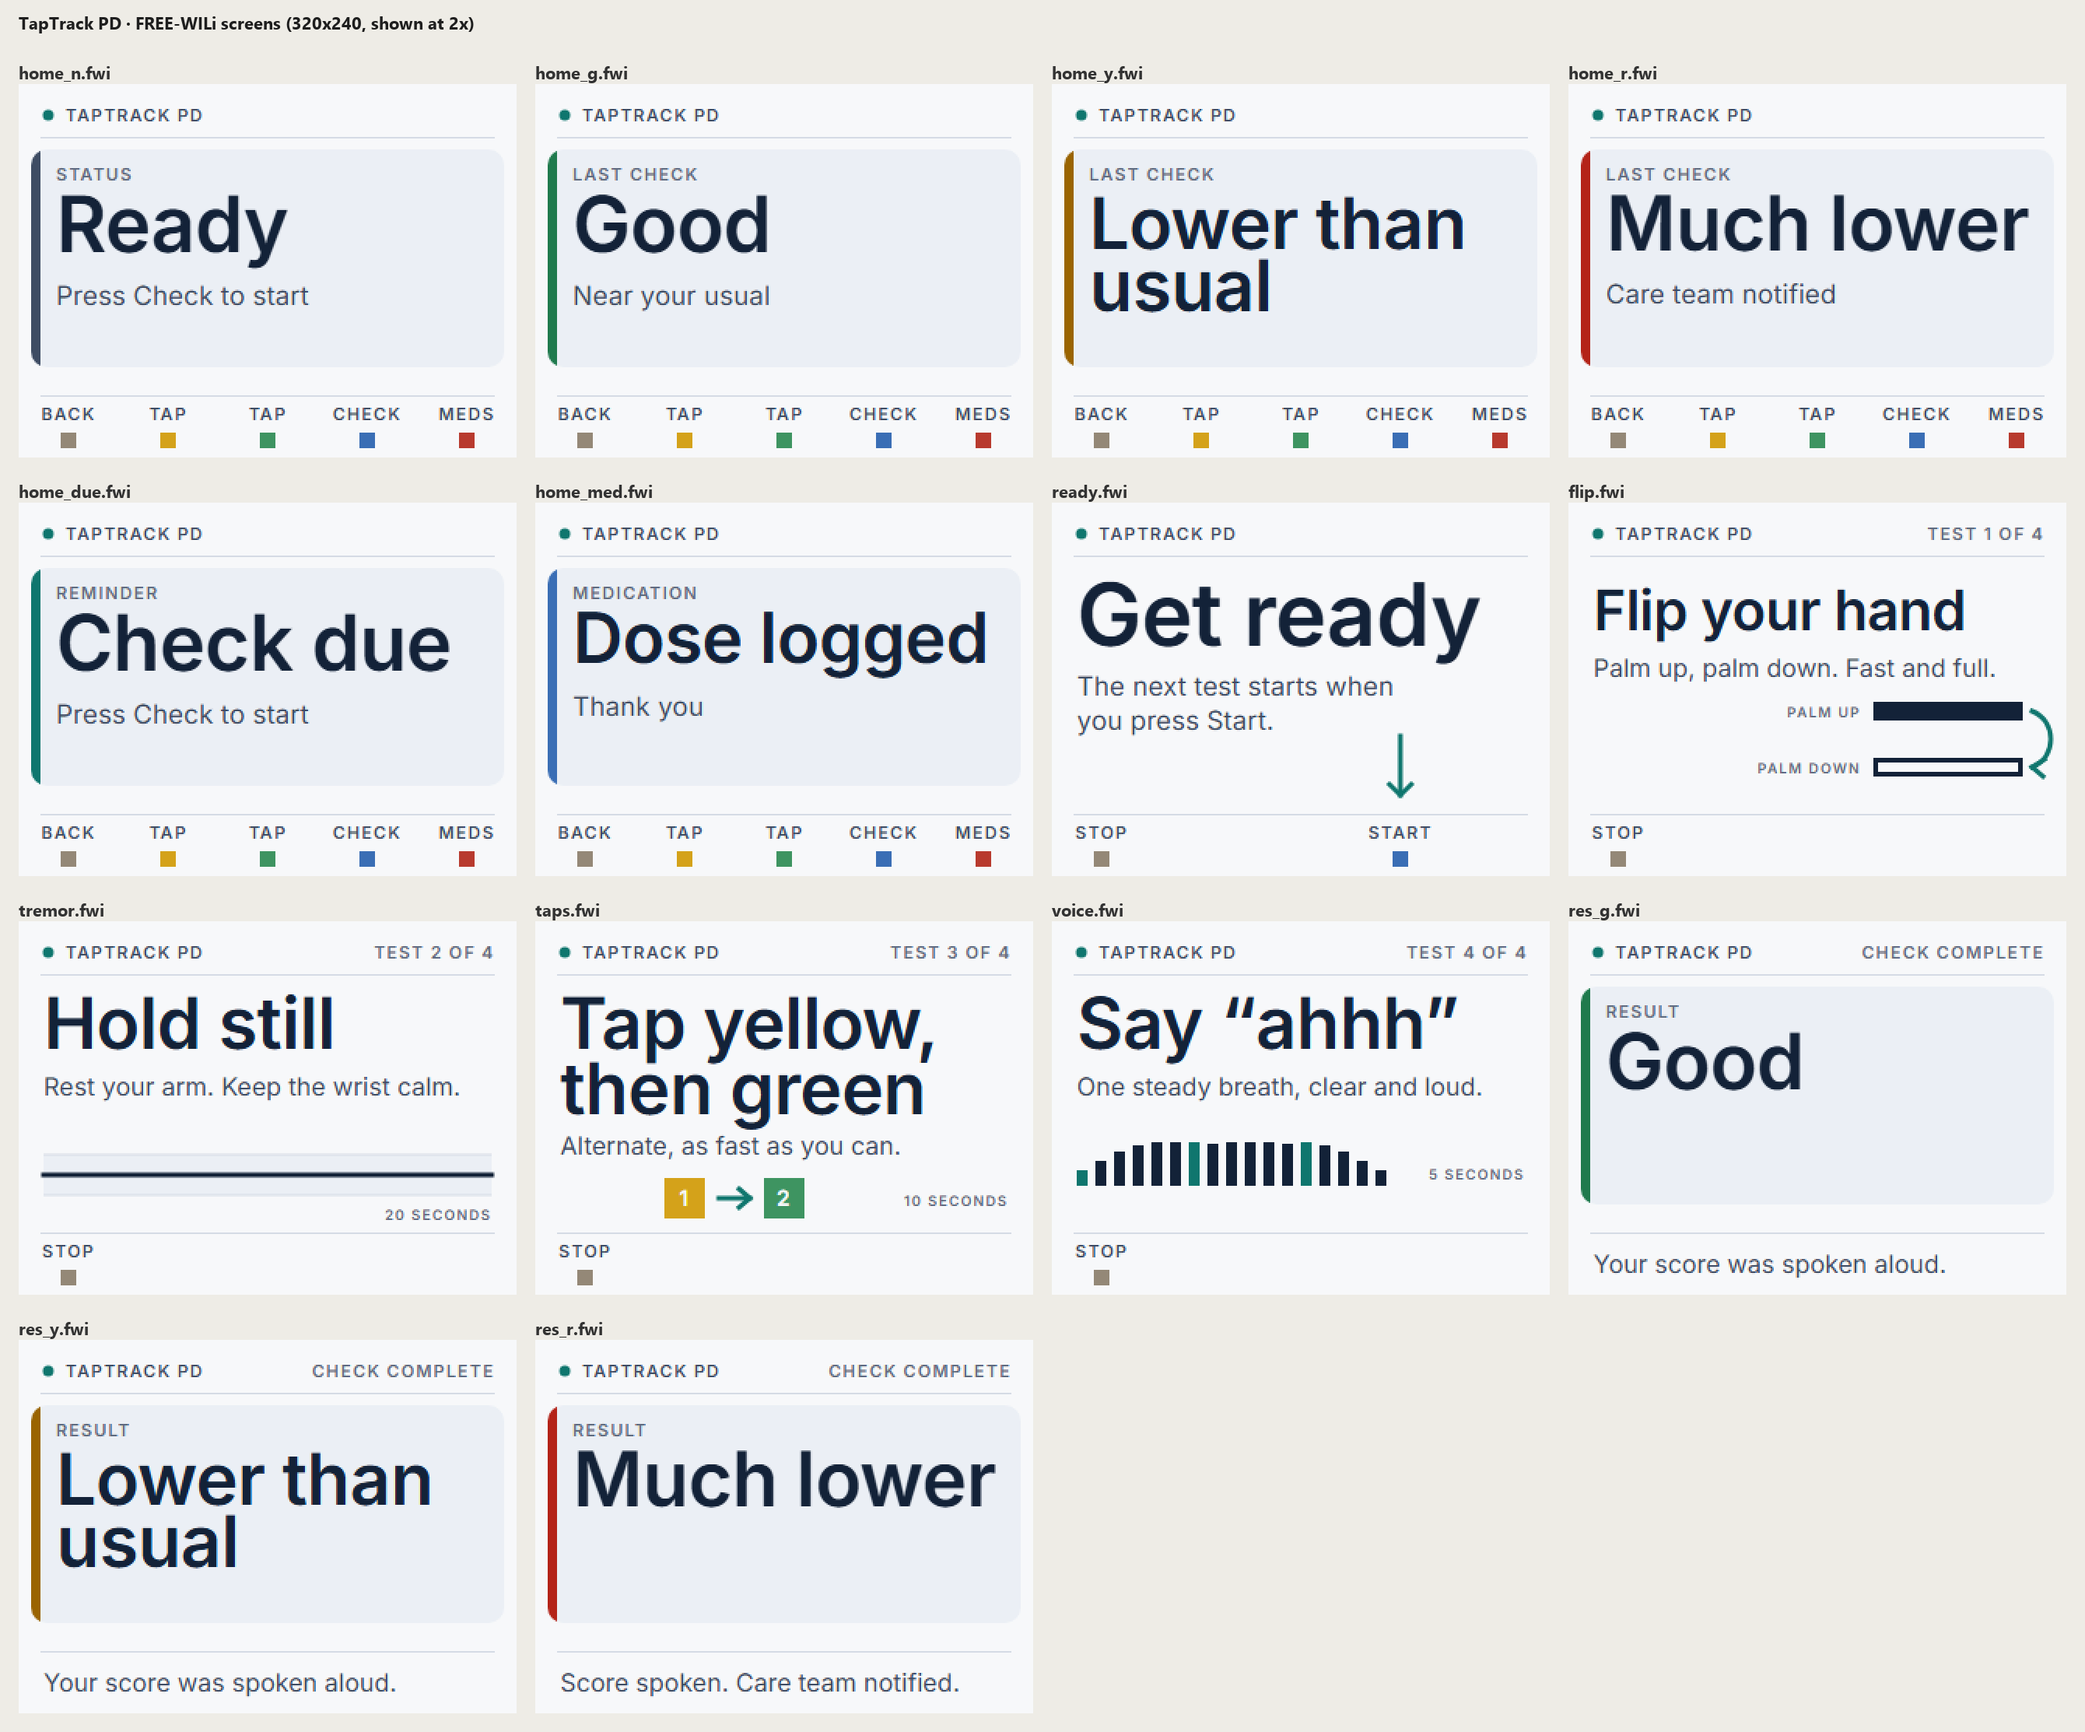
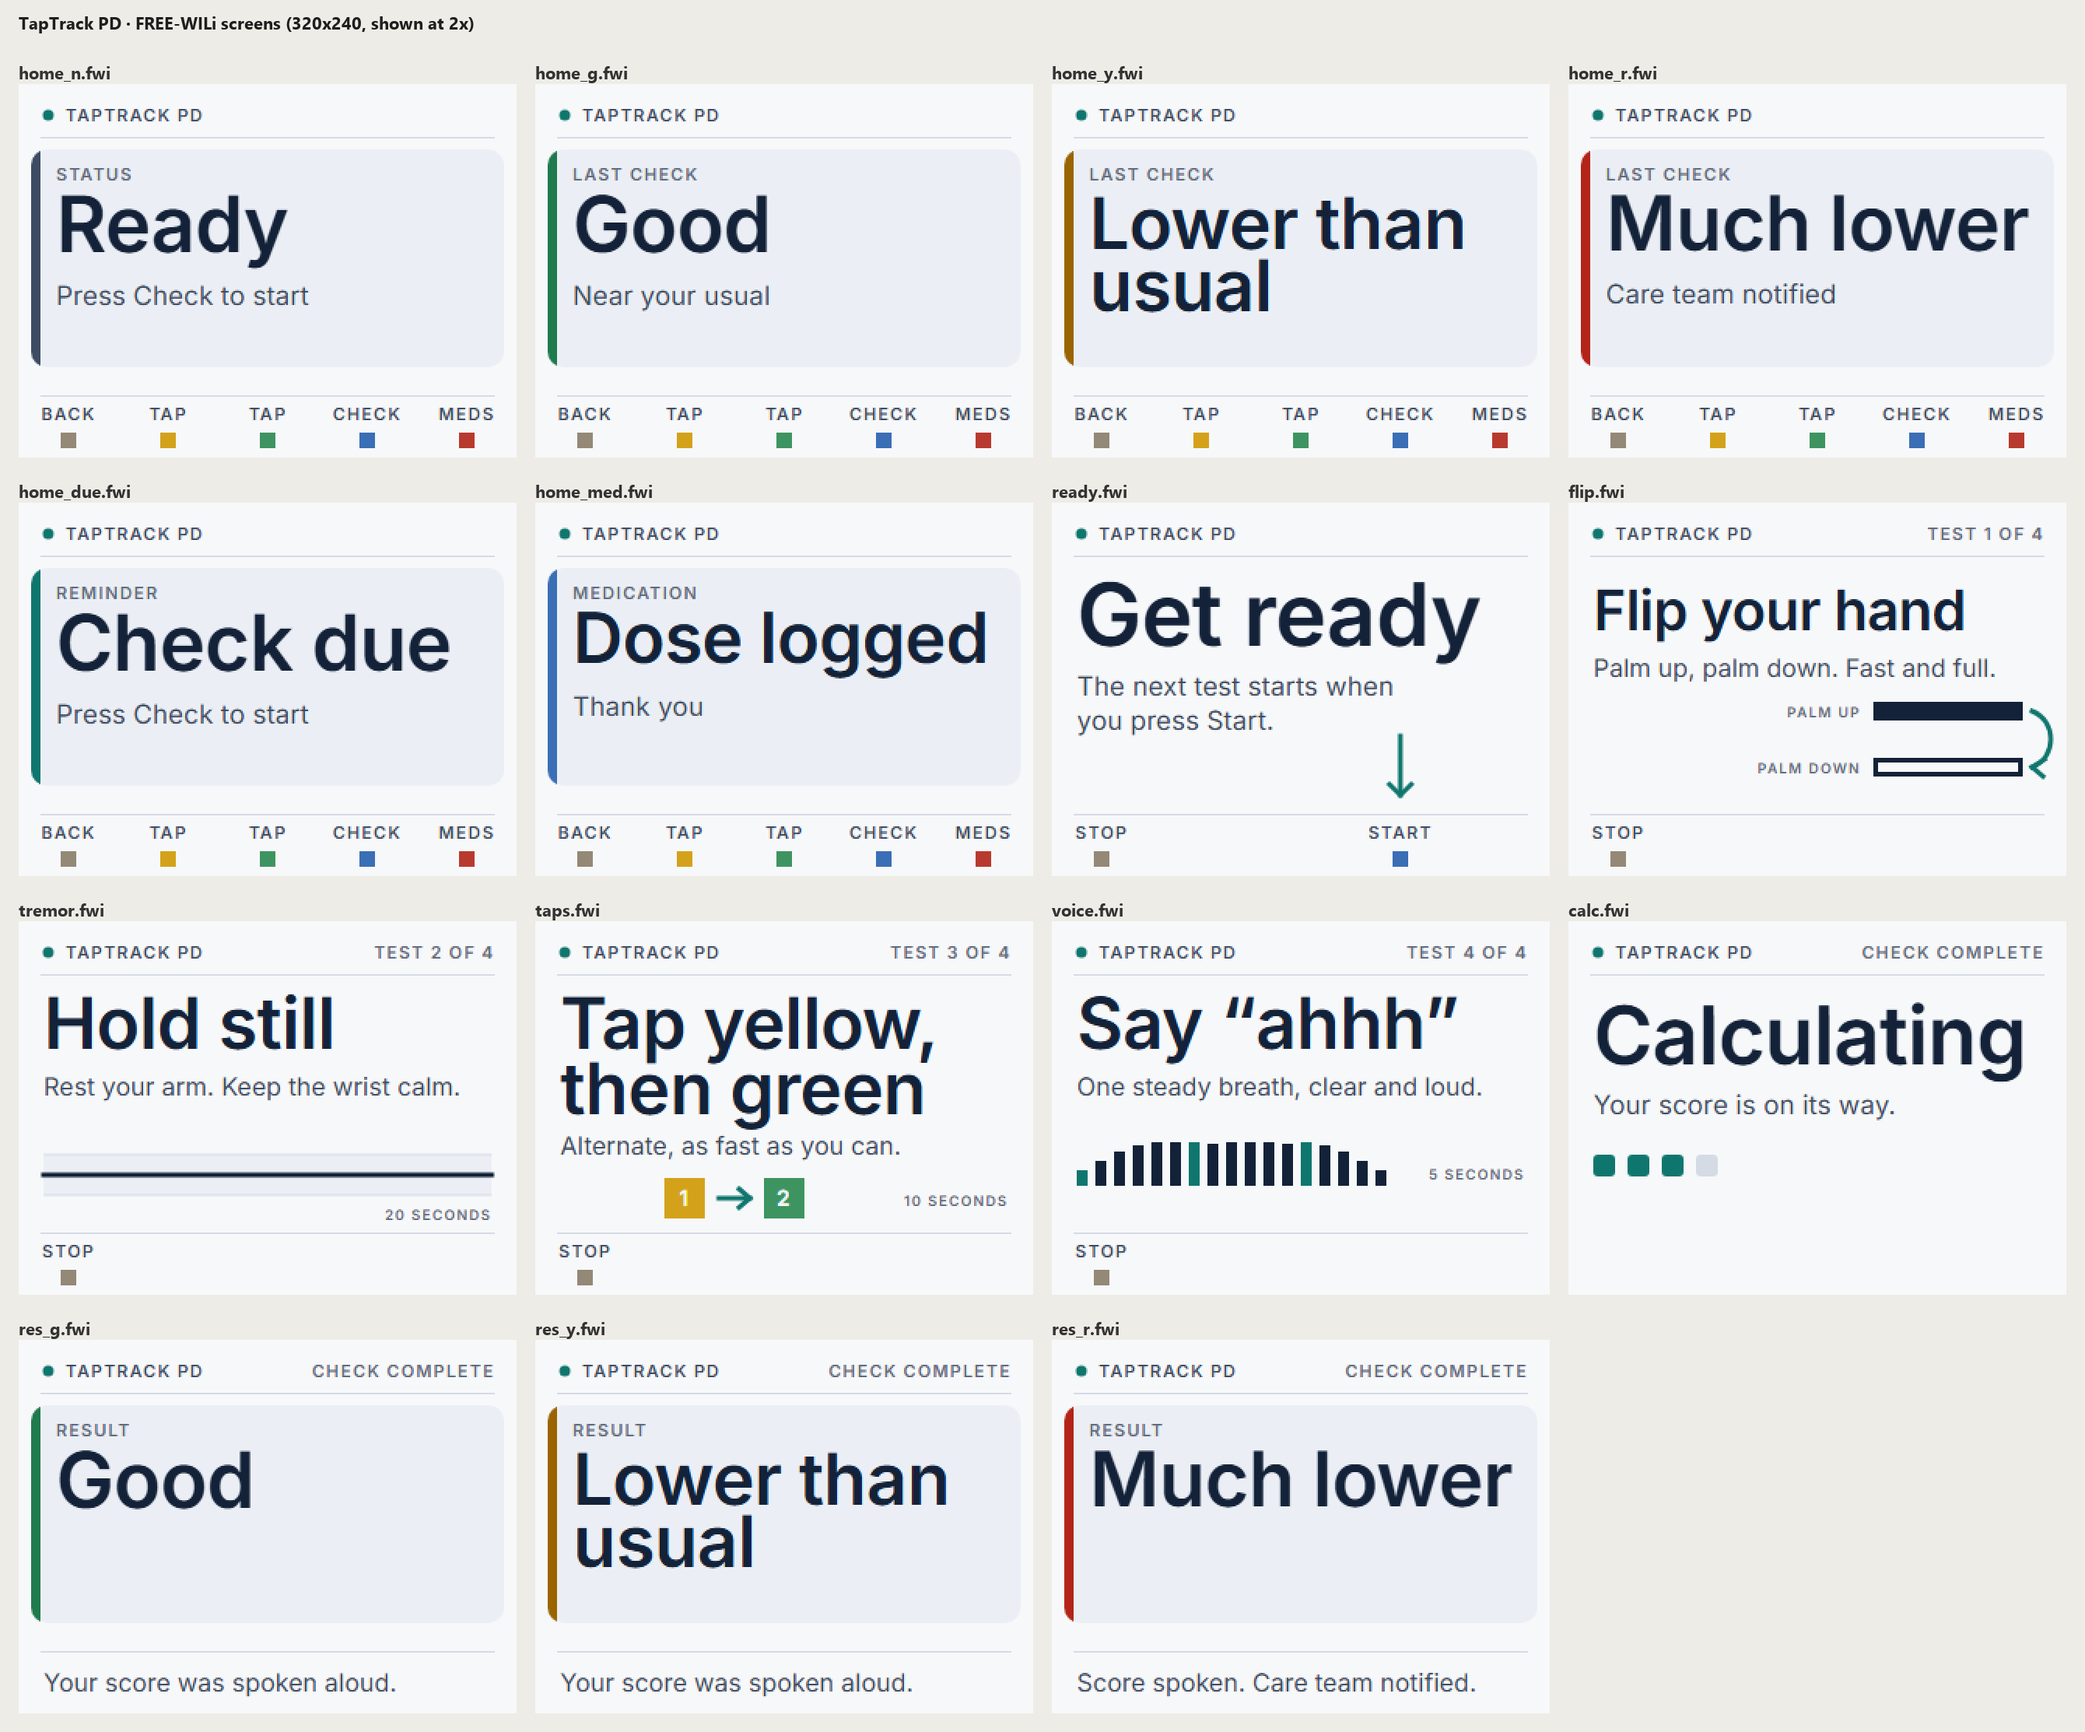
Taps use device timestamps; even out bursty accel timing; Calculating screen; raw dumps of the latest real check

diff --git a/taptrack/device.py b/taptrack/device.py
@@ -107,7 +107,22 @@ def accel_arrays(rows):
             if 0.7 < span_d / span_h < 1.4 and np.all(np.diff(dev) >= 0):
                 t = (dev - dev[0]) / scale + host[0]
                 break
-    return t, a[:, 2:5]
+    return regularize(t), a[:, 2:5]
+
+
+def regularize(t, min_rate=40.0, max_cv=0.5):
+    """USB delivers events in bursts, so arrival times cluster. When the stream is clearly continuous
+    (>= 40 Hz overall, i.e. worn and moving) but the spacing is bursty, the device sampled on a fixed
+    interval: spread the samples evenly over the span. Bursty timing otherwise injects a fake rhythm
+    at the burst rate into tremor and flip signals. Slow (motion-gated) streams are left alone."""
+    t = np.asarray(t, dtype=float)
+    if len(t) < 20 or t[-1] <= t[0]:
+        return t
+    dt = np.diff(t)
+    rate = (len(t) - 1) / (t[-1] - t[0])
+    if rate >= min_rate and dt.mean() > 0 and dt.std() / dt.mean() > max_cv:
+        return np.linspace(t[0], t[-1], len(t))
+    return t
 
 
 class FreeWiliDevice(BaseDevice):
@@ -119,6 +134,7 @@ class FreeWiliDevice(BaseDevice):
         self._accel_on = False
         self._audio_on = False
         self._lock = threading.RLock()
+        self._btn_offset = None   # host - device clock, min over presses (latency floor)
 
     def _call(self, label, fn, *args) -> bool:
         if not self.connected or self.dev is None:
@@ -181,14 +197,26 @@ class FreeWiliDevice(BaseDevice):
             k = config.COUNTS_PER_G * (data.g / 2.0 if data.g else 1.0)
             self.accel.append((now, float(getattr(frame, "timestamp", 0) or 0), data.x / k, data.y / k, data.z / k))
         elif event_type == EventType.Button and isinstance(data, ButtonData):
+            t = self._button_time(now, getattr(frame, "timestamp", 0))
             for c in COLORS:
                 v = bool(getattr(data, c))
                 if v and not self._buttons.get(c):
-                    self._press(c, now)
+                    self._press(c, t)
                 self._buttons[c] = v
         elif event_type == EventType.Audio and isinstance(data, AudioData):
             if self._audio_on:
                 self.audio.extend(data.data)
+
+    def _button_time(self, host_now: float, dev_raw) -> float:
+        """Press time on the host clock from the device timestamp (us on fw v54). Arrival times are
+        bursty over USB, which would make tap rhythm look irregular; device stamps are not."""
+        if not dev_raw:
+            return host_now
+        dev = float(dev_raw) / 1e6
+        off = host_now - dev
+        if self._btn_offset is None or off < self._btn_offset or off - self._btn_offset > 5:
+            self._btn_offset = off   # re-anchor if the device clock jumped
+        return dev + self._btn_offset
 
     def pump(self, seconds: float = 0.02):
         end = time.perf_counter() + seconds

diff --git a/taptrack/bridge.py b/taptrack/bridge.py
@@ -360,7 +360,8 @@ class Bridge(threading.Thread):
                         raise Cancelled()
                     if c == "red":
                         self._log_dose("button")
-            taps = [(t - t_start, c) for t, c in list(dev.presses) if t >= t_start and c in ("yellow", "green")]
+            taps = [(t - t_start, c) for t, c in list(dev.presses) if t >= t_start - 0.3 and c in ("yellow", "green")]
+            self._dump_raw(name, presses=[(t, c) for t, c in list(dev.presses) if t >= t_start - 0.3])
             result = metrics.alternating_taps(taps, seconds)
         else:
             self._wait(seconds, progress=True)
@@ -369,6 +370,7 @@ class Bridge(threading.Thread):
                 result = metrics.voice(dev.audio, config.MIC_RATE_HZ)
             else:
                 rows = [r for r in list(dev.accel) if r[0] >= t_start]
+                self._dump_raw(name, rows=rows)
                 t, xyz = accel_arrays(rows)
                 result = metrics.hand_flip(t, xyz) if name == "flip" else metrics.tremor(t, xyz)
                 if len(t) > 1 and metrics.measured_rate(t) < NOT_WORN_HZ:
@@ -377,6 +379,19 @@ class Bridge(threading.Thread):
         if isinstance(dev, SimDevice):
             dev.mode = "rest"
         return result
+
+    def _dump_raw(self, step, rows=None, presses=None):
+        """Keep the raw samples of the latest real check for debugging (data/raw/<step>.json)."""
+        if isinstance(self.device, SimDevice):
+            return
+        try:
+            import json
+
+            d = config.DATA_DIR / "raw"
+            d.mkdir(exist_ok=True)
+            (d / f"{step}.json").write_text(json.dumps({"rows": rows or [], "presses": presses or []}))
+        except Exception:
+            log.exception("raw dump failed")
 
     def run_check(self, simulate: bool = False, state: float | None = None):
         if self.state == "check":
@@ -423,6 +438,7 @@ class Bridge(threading.Thread):
                 results[name] = r
                 self.publish({"type": "step", "step": name, "phase": "done", "result": r})
             complete = True
+            dev.screen("calc", "Calculating\nyour score")
         except Cancelled:
             complete = False
             dev.leds((0, 0, 0))

diff --git a/screens/design.py b/screens/design.py
@@ -69,7 +69,7 @@ DEFAULT_THEME = "clinical"  # chosen 2026-10-03 (A Clinical)
 
 # 8.3 names on the device
 SCREENS = ["home_n", "home_g", "home_y", "home_r", "home_due", "home_med",
-           "ready", "flip", "tremor", "taps", "voice", "res_g", "res_y", "res_r"]
+           "ready", "flip", "tremor", "taps", "voice", "calc", "res_g", "res_y", "res_r"]
 
 
 def svg(body: str, title: str) -> str:
@@ -217,6 +217,12 @@ def ready():
     return svg(topbar("TapTrack PD") + body + legend({"gray": "STOP", "blue": "START"}), "ready")
 
 
+def calculating():
+    dots = "".join(f'<rect x="{16 + i * 22}" y="150" width="14" height="14" rx="{RADIUS // 3}" fill="{ORANGE if i < 3 else RULE}"/>' for i in range(4))
+    return svg(topbar("TapTrack PD", "Check complete") + serif(16, 92, "Calculating", 52)
+               + text(16, 124, "Your score is on its way.", 17, 400, BROWN_2, "start") + dots, "calc")
+
+
 def result(name, color, word, foot):
     return svg(topbar("TapTrack PD", "Check complete") + status_block(62, color, "Result", word, "")
                + f'<rect x="14" y="200" width="{W - 28}" height="1" fill="{RULE}"/>'
@@ -230,6 +236,7 @@ def build_svgs() -> dict[str, str]:
     out["tremor"] = instruction("tremor", 2, "Hold still", "", "Rest your arm. Keep the wrist calm.", art_tremor())
     out["taps"] = instruction("taps", 3, "Tap yellow,", "then green", "Alternate, as fast as you can.", art_taps())
     out["voice"] = instruction("voice", 4, "Say “ahhh”", "", "One steady breath, clear and loud.", art_voice())
+    out["calc"] = calculating()
     out["res_g"] = result("res_g", GOOD, "Good", "Your score was spoken aloud.")
     out["res_y"] = result("res_y", FAIR, "Lower than usual", "Your score was spoken aloud.")
     out["res_r"] = result("res_r", LOW, "Much lower", "Score spoken. Care team notified.")
